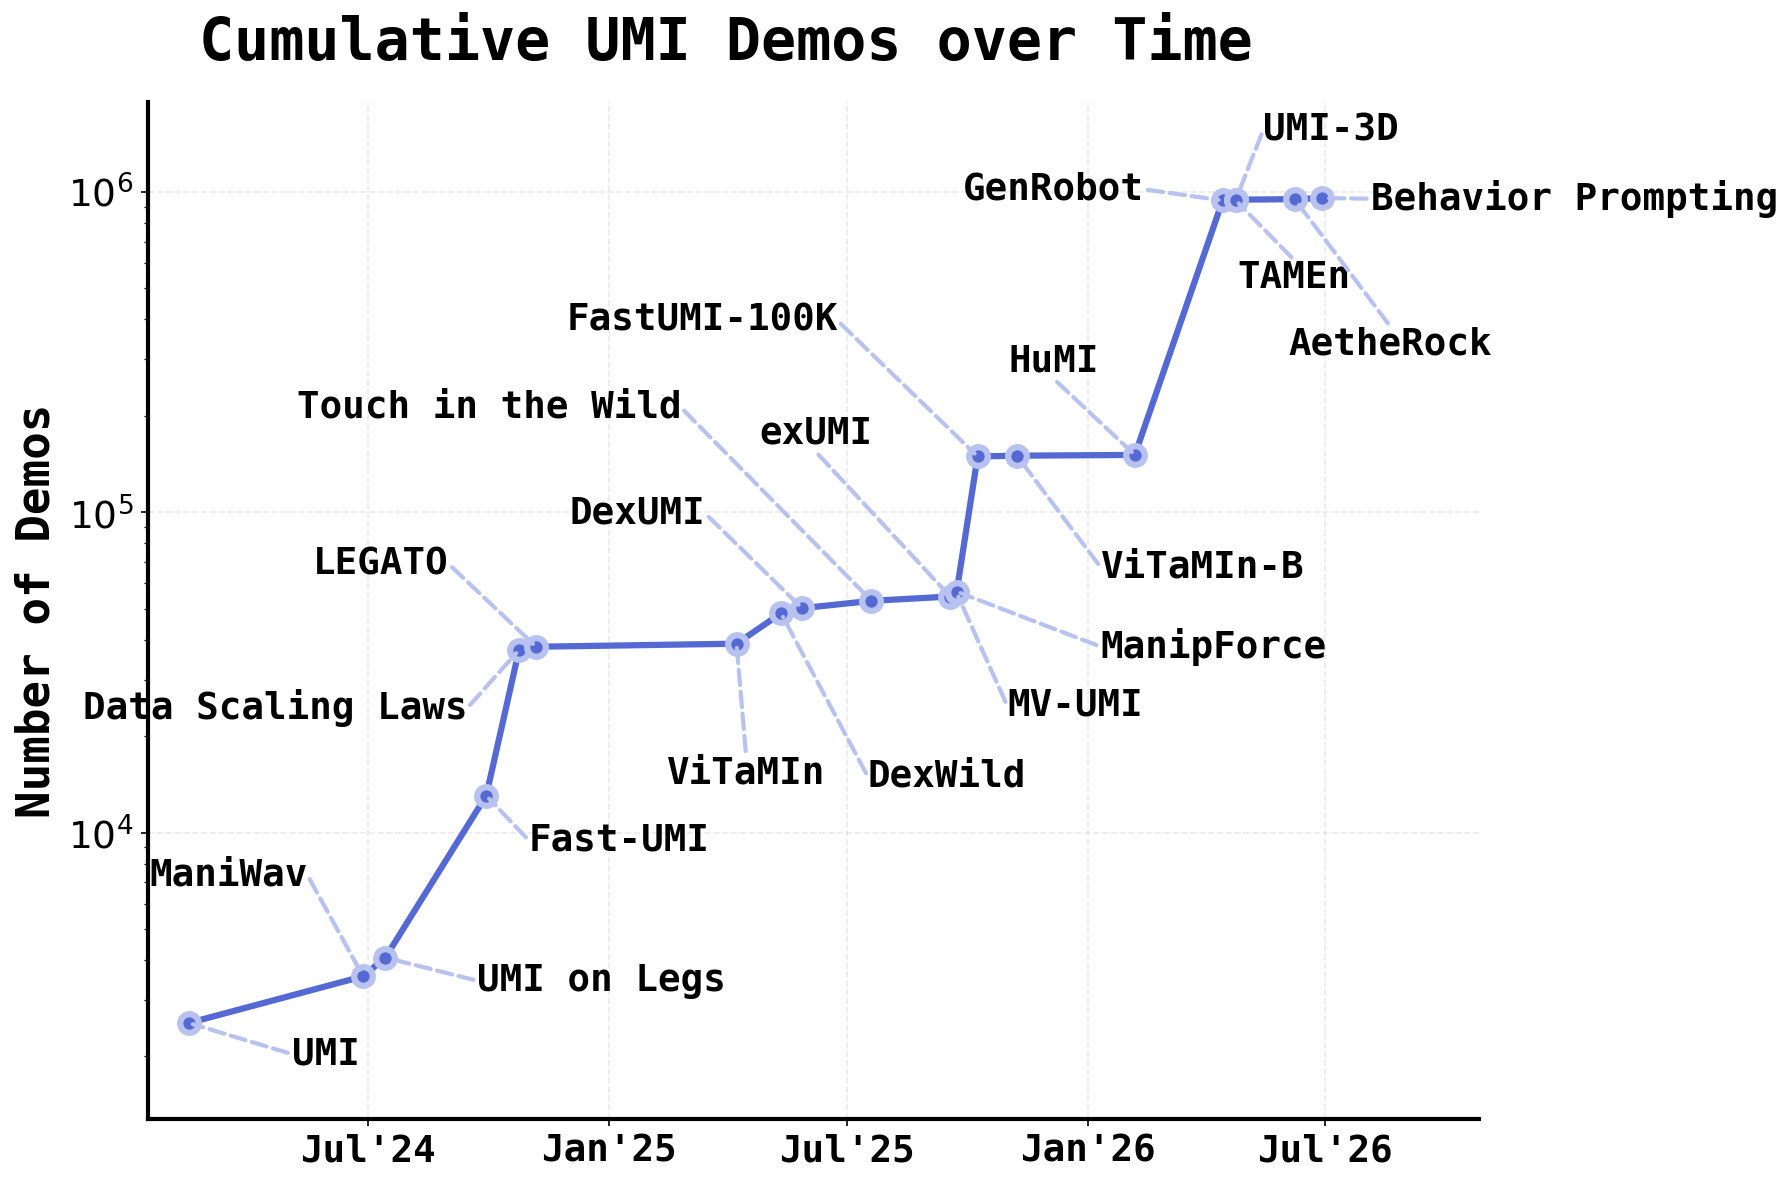
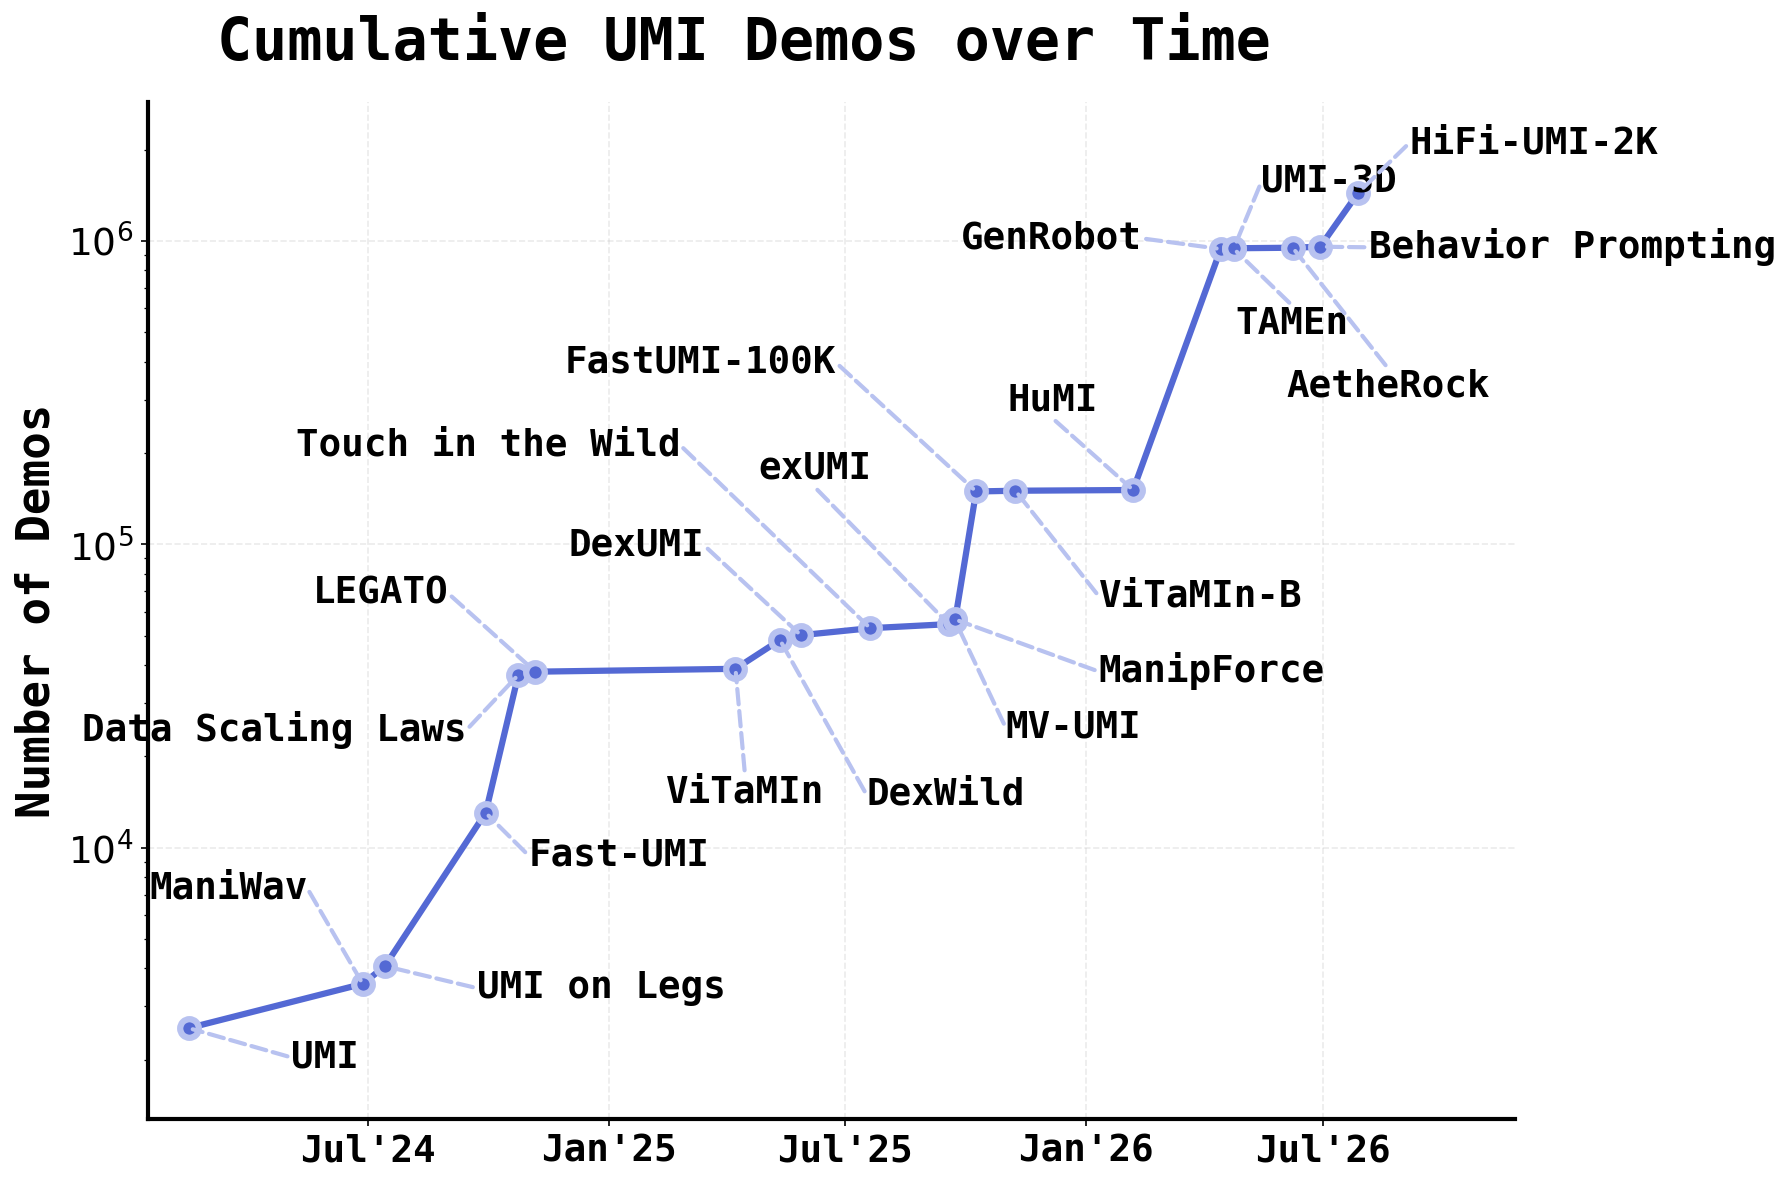
Add Hifi-UMI

diff --git a/index.html b/index.html
@@ -24,6 +24,30 @@
     <script>
         let rows = [
 
+            // HiFi-UMI-2K
+            {
+                "Project": "HiFi-UMI: Learning Deployable Manipulation Policies from High-Fidelity UMI Data Alone",
+                "Project Link": "https://cloud.simpleai.tech/simple-world-lab/hifi-umi/",
+                "release_date": "2026-07-28",
+                "contact": ["pr@simpleai.tech"],
+                "license": "CC BY 4.0",
+                "citation": `@article{simpleai2026hifiumi,
+  title   = {HiFi-UMI: Learning Deployable Manipulation Policies from High-Fidelity UMI Data Alone},
+  author  = {{Simple AI} and Wei, Yuteng and Ma, Jinming and Wang, Jiawei and Zhou, Weitao and Zuo, Yushen and Rui, Ke and Li, Minglei and Zhang, Jinhao and Pan, Zhikang and Wang, Xiang and Jia, Haoran and Du, Huan and Zeng, Zicheng and Ma, Jun and Qin, Guiyu and Zhang, Di and Li, Xiaofei},
+  journal = {arXiv preprint arXiv:2607.25895},
+  year    = {2026}
+}`,
+                "task": "Diverse",
+                "data_links": {
+                    "LeRobot": "https://huggingface.co/datasets/simple-world-lab/HiFi-UMI-2K"
+                },
+                "obs": ["Image", "Proprio", "Bimanual"],
+                "actions": ["6 DoF End Effector", "Parallel Gripper", "Bimanual"],
+                "n_demos": 482000,
+                "n_envs": "110+",
+                "notes": "HiFi-UMI-2K is a 2,000-hour public release (482k+ episodes, 110+ scenes) collected with the HiFi-UMI bimanual capture system, a curated subset of a 20,000+ hour source corpus. Each episode has six hardware-synchronized camera views (stereo head cameras plus two fisheye cameras per hand), bimanual end-effector trajectories with ~3 mm local accuracy, gripper states, and language annotations. Distributed in LeRobot v3-style format (Parquet + MP4). Paper: <a href=\"https://arxiv.org/abs/2607.25895\">arXiv:2607.25895</a>."
+            },
+
             // AetheRock
             {
                 "Project": "AetheRock: An Arm-Worn Robot Teaching System for Force-Guided Vision-Tactile Learning",

diff --git a/plots/interactive_annotate.py b/plots/interactive_annotate.py
@@ -63,6 +63,7 @@ projects = [
     ("GenRobot",           "2026-04-14", 789772),
     ("Behavior Prompting", "2026-06-29", 1572+5788),
     ("AetheRock",          "2026-06-08", 199+229+497+498+215+212+501+497+496+206+214),
+    ("HiFi-UMI-2K",        "2026-07-28", 482000),
 ]
 
 projects   = sorted(projects, key=lambda x: x[1])

diff --git a/plots/plot_stats.py b/plots/plot_stats.py
@@ -37,6 +37,7 @@ projects = [
     ("GenRobot",           "2026-04-14", 789772),
     ("Behavior Prompting", "2026-06-29", 1572+5788),
     ("AetheRock",          "2026-06-08", 199+229+497+498+215+212+501+497+496+206+214),
+    ("HiFi-UMI-2K",        "2026-07-28", 482000),
 ]
 
 projects   = sorted(projects, key=lambda x: x[1])
